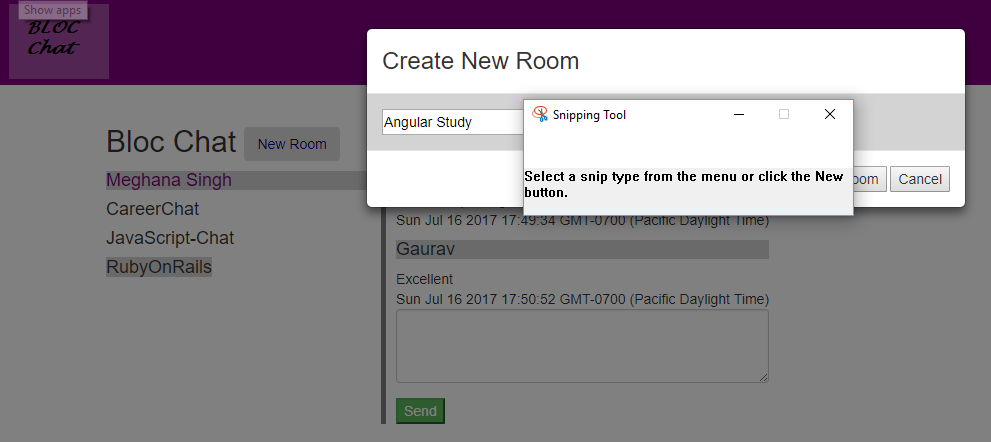
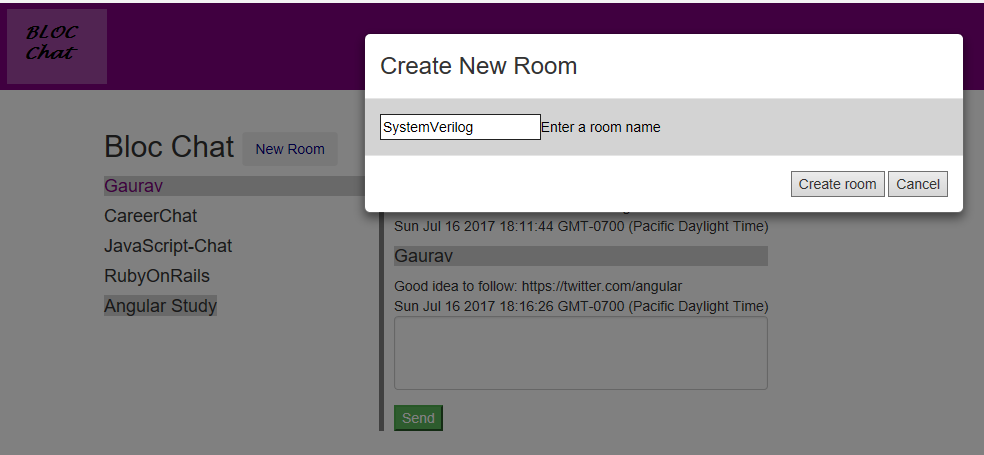
added images

diff --git a/_portfolio/webflow.md b/_portfolio/webflow.md
@@ -1,9 +1,23 @@
 ---
 layout: post
-title: Blocipedia
+title: BlocChat
 feature-img: "img/sample_feature_img.png"
 thumbnail-path: "https://d13yacurqjgara.cloudfront.net/users/3217/screenshots/1686132/webflow_landingpage_1x.jpg"
-short-description: Collaborate through a Wiki app!
+short-description: Lets Chat!
 
 ---
-Blocipedia allows users to create new Wikis, invite collaborators to edit the content, get a standard or a premium account, create private Wikis (premium account only). Admin has rights to delete Wikis.
+BlocChat is a AngularJS Firebase app for realtime chatting. Users can login, create chat rooms and chat with other logged in users.
+
+
+<img src="/img/blocChat_rooms.PNG">
+<br>
+
+<h3> New Room Creation </h3>
+
+<img src="/img/blocChat_newroom.PNG">
+<br>
+
+<h3> Sending Messages (Instant Chat) </h3>
+
+<img src="/img/blocChat_send.PNG">
+<br>

diff --git a/_portfolio/blocjams.md b/_portfolio/blocjams.md
@@ -3,7 +3,7 @@ layout: post
 title: Teleioo
 feature-img: "img/sample_feature_img.png"
 
-thumbnail-path: "https://d13yacurqjgara.cloudfront.net/users/3217/screenshots/2030966/blocjams_1x.png"
+thumbnail-path: "img/Teleioo_consolidated.png"
 short-description: Teleioo will motivate you to accomplish your goals!
 
 ---

diff --git a/_portfolio/bloctalk.md b/_portfolio/bloctalk.md
@@ -3,7 +3,7 @@ layout: post
 title: webAnalytics
 feature-img: "img/sample_feature_img.png"
 
-thumbnail-path: "https://d13yacurqjgara.cloudfront.net/users/3217/screenshots/2030974/bloctalk_1x.png"
+thumbnail-path: "img/webAnalytics_consolidated.png"
 short-description: Know what your users are doing!
 
 ---
